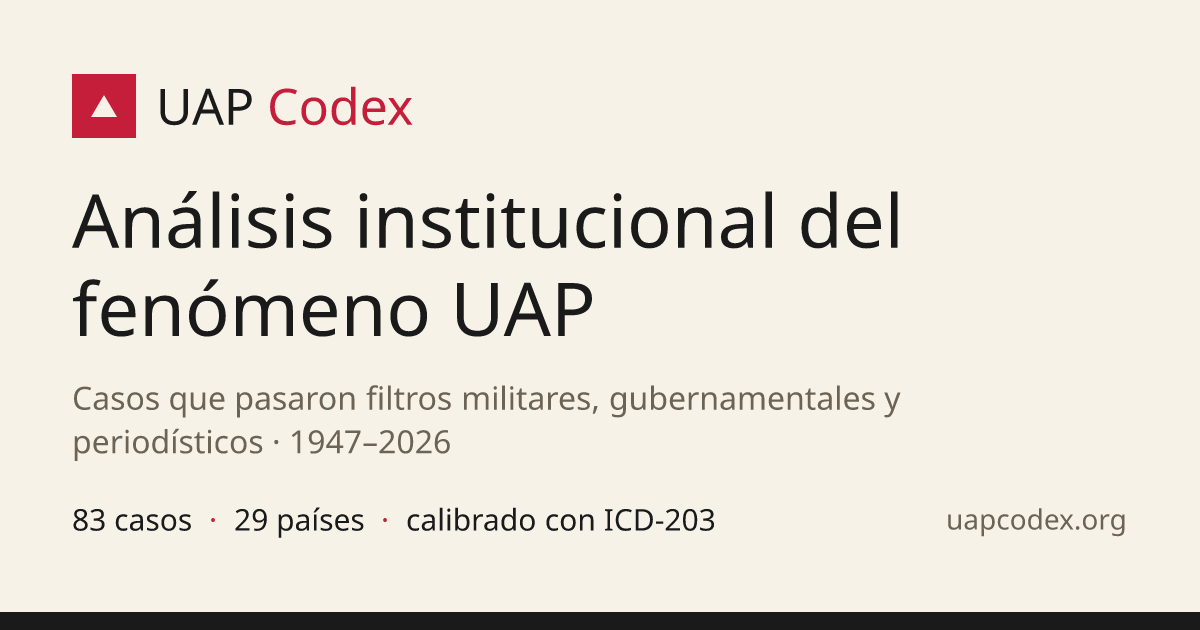
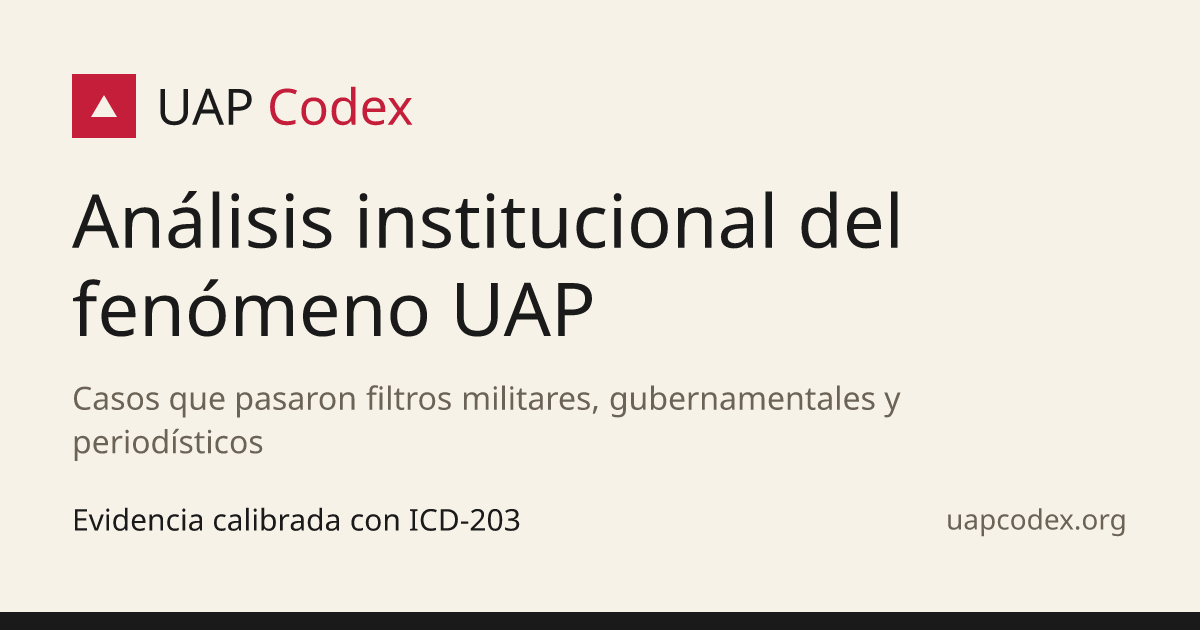
Cero conteos hardcodeados: CorpusStats dinámico, og.png evergreen, audit reforzado
Sobre la auditoría numérica (#131):
- CorpusStats: '18 patrones' → patterns.length (dinámico).
- og.png: ahora EVERGREEN (sin conteos ni rango de años → 'Evidencia
  calibrada con ICD-203'). Un PNG estático no puede derivar de STATS, así
  que se elimina la fuente de staleness en vez de regenerarlo cada vez.
- audit-consistency: CANONICAL_COUNTS suma patterns/researchers/frameworks
  y el regex de contexto suma esas palabras → caza cualquier conteo del
  corpus hardcodeado a futuro. El drift ±5 se restringe a las cuentas
  grandes para no generar falsos positivos con números chicos.

Changed region(s): [[0.0617, 0.7841, 0.6167, 0.8444], [0.2467, 0.6635, 0.37, 0.7238]]

diff --git a/web/components/CorpusStats.tsx b/web/components/CorpusStats.tsx
@@ -184,7 +184,7 @@ export function CorpusStats() {
           <T
             es={
               <>
-                ¿Quieres ver los 18 patrones?{" "}
+                ¿Quieres ver los {patterns.length} patrones?{" "}
                 <Link
                   href="/patterns"
                   className="text-accent hover:underline"
@@ -195,7 +195,7 @@ export function CorpusStats() {
             }
             en={
               <>
-                Want to see all 18 patterns?{" "}
+                Want to see all {patterns.length} patterns?{" "}
                 <Link
                   href="/patterns"
                   className="text-accent hover:underline"
